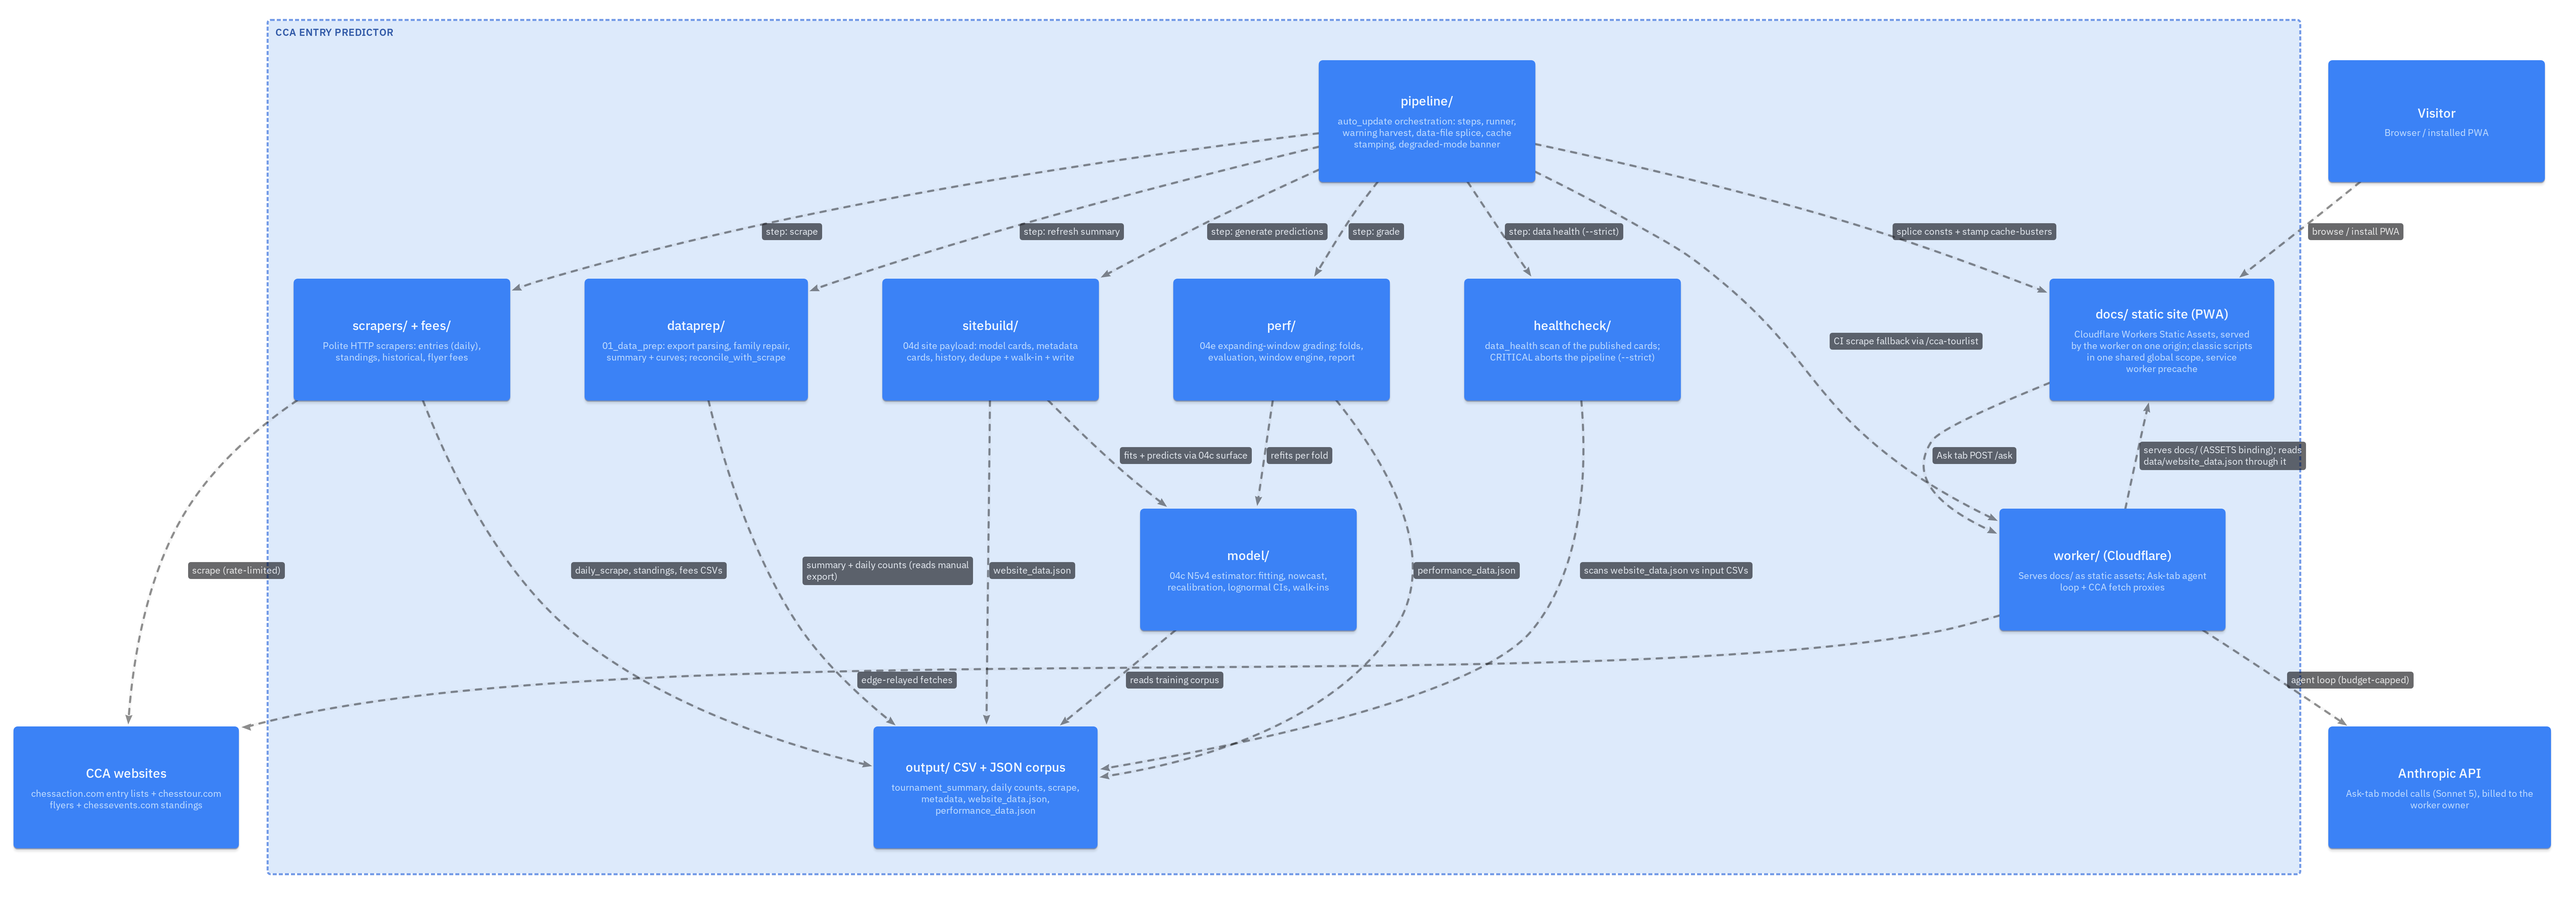
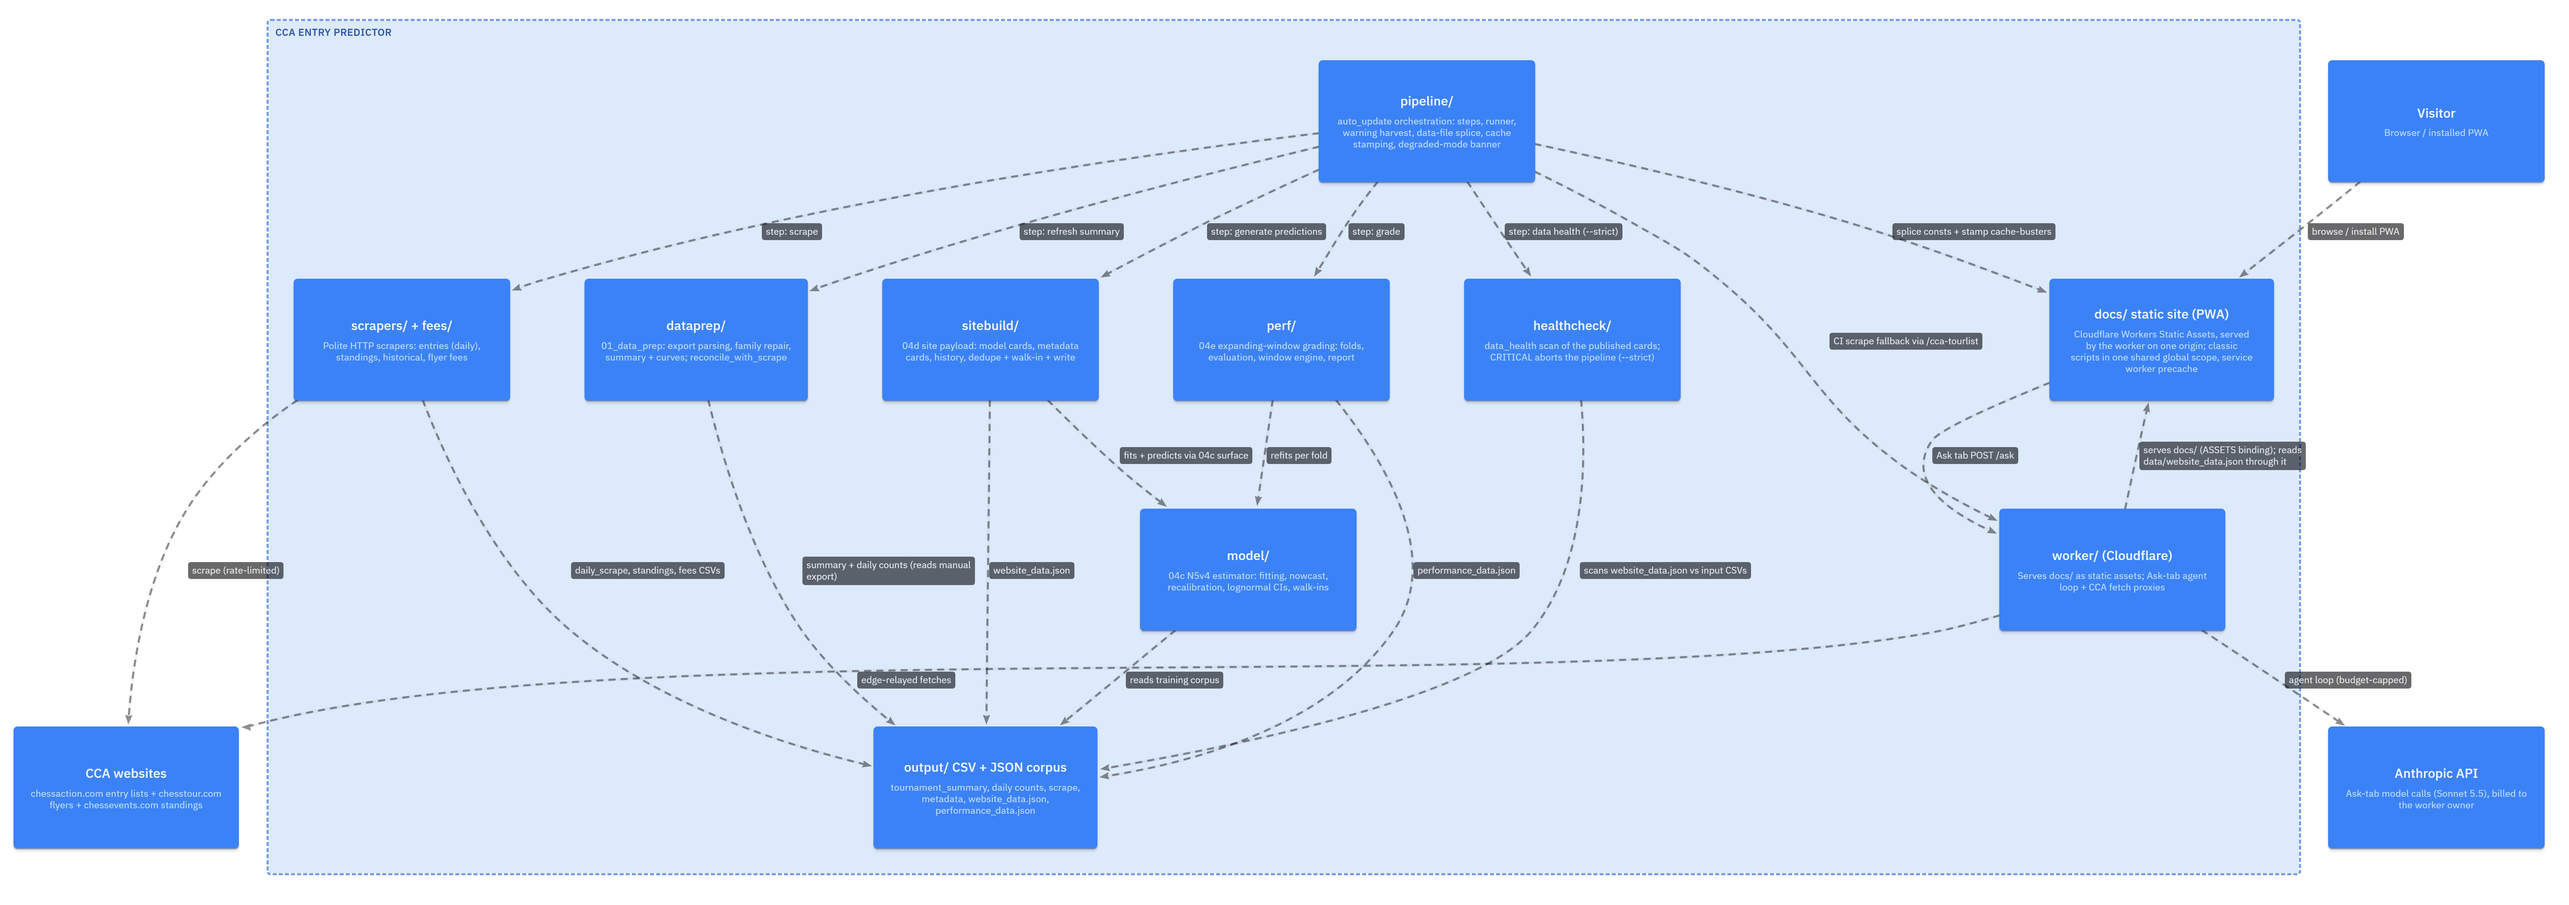
feat(worker): Ask tab on claude-sonnet-5-5 with server-side refusal fallback
- MODEL is claude-sonnet-5-5 in production and previews.
- Price table: Sonnet 5.5 entry ($2/$10, cache write $2.50, read $0.20);
  lookup takes the longest matching prefix, since claude-sonnet-5-5 also
  starts with claude-sonnet-5.
- Requests send fallbacks: "default". Turn cost is the larger of the
  served attempt and the sum of usage.iterations, priced per attempt
  model; an unknown served model bills at the table's highest rates and
  logs, instead of throwing after the tokens were already billed.
- /ask returns 503 model_unpriced before any billed call when MODEL has
  no price entry.
- A max_tokens stop is marked as cut off instead of shown as complete;
  each turn logs stop_reason, served model and token counts; /ask
  reports the model that served the answer.
- README MODEL row and the likec4 Anthropic element updated; index and
  worker_view re-rendered.

diff --git a/worker/src/limits.ts b/worker/src/limits.ts
@@ -75,7 +75,8 @@ const DEFAULT_DAILY_BUDGET_USD = 1;
 // to 60s stale and the cap was effectively per-PoP, per-minute. Worst case per
 // request is MAX_TURNS x max_tokens at Sonnet output rates (~$0.48) against a
 // $1.00 cap, so a burst of concurrent POSTs billed roughly $96 while the
-// counter recorded one charge.
+// counter recorded one charge. ($0.48 stays the floor on Sonnet 5.5: a turn
+// served by its refusal fallback bills at the Sonnet 5 entry below.)
 //
 // Writes to distinct keys cannot lose updates, so the sum is exact for
 // everything KV has converged on. The residual is list read-after-write lag,
@@ -157,6 +158,7 @@ interface ModelPricing {
   cacheRead: number;
 }
 const MODEL_PRICING: Record<string, ModelPricing> = {
+  "claude-sonnet-5-5": { input: 2.0, output: 10.0, cacheWrite: 2.5, cacheRead: 0.2 },
   // Sonnet 5 standard rate (intro $2/$10 runs through 2026-08-31; the budget
   // guard uses the durable rate so it over-counts, never under-counts).
   "claude-sonnet-5": { input: 3.0, output: 15.0, cacheWrite: 3.75, cacheRead: 0.3 },
@@ -164,24 +166,72 @@ const MODEL_PRICING: Record<string, ModelPricing> = {
   "claude-opus-4": { input: 15.0, output: 75.0, cacheWrite: 18.75, cacheRead: 1.5 },
   "claude-haiku-4": { input: 1.0, output: 5.0, cacheWrite: 1.25, cacheRead: 0.1 },
 };
+// Every rate at its table maximum. Bills a model the table does not know, which
+// can happen without a deploy: with `fallbacks: "default"` the server picks the
+// fallback model.
+const CEILING_PRICING: ModelPricing = {
+  input: Math.max(...Object.values(MODEL_PRICING).map(p => p.input)),
+  output: Math.max(...Object.values(MODEL_PRICING).map(p => p.output)),
+  cacheWrite: Math.max(...Object.values(MODEL_PRICING).map(p => p.cacheWrite)),
+  cacheRead: Math.max(...Object.values(MODEL_PRICING).map(p => p.cacheRead)),
+};
 // code_execution bills container uptime separately (~$0.05/hour). We can't see
 // wall-clock per request, so add a small per-invocation term when it ran.
 const CODE_EXEC_COST_PER_CALL = 0.0005;
 
+// Longest matching prefix wins: "claude-sonnet-5-5" also starts with
+// "claude-sonnet-5", and a first-match lookup would depend on key order.
+function priceKeyFor(model: string): string | undefined {
+  return Object.keys(MODEL_PRICING)
+    .filter(k => model.startsWith(k))
+    .sort((a, b) => b.length - a.length)[0];
+}
+
+// Strict lookup for the configured model. Callers check it before the first
+// billed call, so a missing entry stops the request instead of the spend.
 export function pricingFor(model: string): ModelPricing {
-  const key = Object.keys(MODEL_PRICING).find(k => model.startsWith(k));
+  const key = priceKeyFor(model);
   if (!key) {
     throw new Error(`No price table entry for model "${model}" — add it to MODEL_PRICING before deploying.`);
   }
   return MODEL_PRICING[key];
 }
 
-export function estimateCost(usage: Anthropic.Beta.BetaUsage, model: string, codeExecCalls = 0): number {
-  const p = pricingFor(model);
-  const i = usage.input_tokens ?? 0;
-  const o = usage.output_tokens ?? 0;
-  const cw = usage.cache_creation_input_tokens ?? 0;
-  const cr = usage.cache_read_input_tokens ?? 0;
-  const tokenCost = ((i * p.input) + (o * p.output) + (cw * p.cacheWrite) + (cr * p.cacheRead)) / 1_000_000;
-  return tokenCost + codeExecCalls * CODE_EXEC_COST_PER_CALL;
+// Lenient lookup for a model the API reports after the call. The tokens are
+// already billed, so an unknown model is charged at the ceiling and logged
+// rather than throwing and losing the record.
+function pricingForServed(model: string | null): ModelPricing {
+  const key = model ? priceKeyFor(model) : undefined;
+  if (key) return MODEL_PRICING[key];
+  console.error(`No price table entry for served model "${model}" — billing at the table's highest rates`);
+  return CEILING_PRICING;
+}
+
+interface TokenCounts {
+  input_tokens?: number | null;
+  output_tokens?: number | null;
+  cache_creation_input_tokens?: number | null;
+  cache_read_input_tokens?: number | null;
+}
+
+function tokenCost(u: TokenCounts, p: ModelPricing): number {
+  const i = u.input_tokens ?? 0;
+  const o = u.output_tokens ?? 0;
+  const cw = u.cache_creation_input_tokens ?? 0;
+  const cr = u.cache_read_input_tokens ?? 0;
+  return ((i * p.input) + (o * p.output) + (cw * p.cacheWrite) + (cr * p.cacheRead)) / 1_000_000;
+}
+
+// `model` is the model that served the response (`resp.model`). Top-level
+// usage covers only that attempt; with refusal fallbacks, `usage.iterations`
+// lists every attempt at its own model. Bill the larger of the two so a
+// declined attempt is never dropped. An entry without a model (compaction, or
+// a null `model`) is priced as the served model.
+export function estimateCost(usage: Anthropic.Beta.BetaUsage, model: string | null, codeExecCalls = 0): number {
+  const served = tokenCost(usage, pricingForServed(model));
+  const attempts = (usage.iterations ?? []).reduce((sum, it) => {
+    const itModel = "model" in it && it.model ? it.model : model;
+    return sum + tokenCost(it, pricingForServed(itModel));
+  }, 0);
+  return Math.max(served, attempts) + codeExecCalls * CODE_EXEC_COST_PER_CALL;
 }

diff --git a/worker/src/agent.ts b/worker/src/agent.ts
@@ -76,7 +76,14 @@ interface RunResult {
   tools_used: string[];
   latency_ms: number;
   cost_usd: number;
+  // The model that served the last turn. Differs from the configured model
+  // when a refusal fallback answered.
+  model: string;
 }
+
+// Thinking counts toward max_tokens, so a long turn can stop mid-answer. Say so
+// rather than presenting the partial text as a complete answer.
+const TRUNCATED_NOTE = "\n\n(This answer was cut off before it finished. Try a narrower question.)";
 
 export async function runAgentLoop(
   client: Anthropic,
@@ -91,6 +98,14 @@ export async function runAgentLoop(
   const toolsUsed: string[] = [];
   let totalCost = 0;
   let budgetStopped = false;
+  let servedModel = model;
+  const finish = (answer: string): RunResult => ({
+    answer,
+    tools_used: toolsUsed,
+    latency_ms: Date.now() - start,
+    cost_usd: +totalCost.toFixed(6),
+    model: servedModel,
+  });
 
   const messages: Anthropic.Beta.BetaMessageParam[] = [];
   if (body.history && Array.isArray(body.history)) {
@@ -131,8 +146,13 @@ export async function runAgentLoop(
       tools,
       output_config: { effort: "medium" },
       messages,
-      betas: ["files-api-2025-04-14"],
+      // On a policy refusal the API re-runs the turn on a fallback model it
+      // picks by refusal category. Non-streaming responses omit the declined
+      // partial, so resp.content is pushed back unchanged below.
+      fallbacks: "default",
+      betas: ["files-api-2025-04-14", "server-side-fallback-2026-07-01"],
     });
+    servedModel = resp.model ?? servedModel;
 
     // Track tool usage. Server-side tools (code_execution) emit server_tool_use blocks
     // with names like "bash_code_execution", "text_editor_code_execution". We collapse
@@ -145,8 +165,19 @@ export async function runAgentLoop(
         if (name.includes("code_execution")) sawCodeExec = true;
       }
     }
-    const turnCost = estimateCost(resp.usage, model, sawCodeExec ? 1 : 0);
+    const turnCost = estimateCost(resp.usage, resp.model, sawCodeExec ? 1 : 0);
     totalCost += turnCost;
+    console.log(JSON.stringify({
+      event: "ask_turn",
+      turn,
+      stop_reason: resp.stop_reason,
+      model: resp.model,
+      input_tokens: resp.usage.input_tokens,
+      output_tokens: resp.usage.output_tokens,
+      cache_read_input_tokens: resp.usage.cache_read_input_tokens,
+      cache_creation_input_tokens: resp.usage.cache_creation_input_tokens,
+      cost_usd: +turnCost.toFixed(6),
+    }));
     if (sawCodeExec && !toolsUsed.includes("code_execution")) {
       toolsUsed.push("code_execution");
     }
@@ -199,37 +230,20 @@ export async function runAgentLoop(
         .map((b) => b.text)
         .join("")
         .trim();
-      return {
-        answer: text || "(no answer returned)",
-        tools_used: toolsUsed,
-        latency_ms: Date.now() - start,
-        cost_usd: +totalCost.toFixed(6),
-      };
+      const answer = text || "(no answer returned)";
+      return finish(resp.stop_reason === "max_tokens" ? answer + TRUNCATED_NOTE : answer);
     }
 
     if (resp.stop_reason === "refusal") {
-      return {
-        answer: "I can't answer that one. Try a different question about the tournament data.",
-        tools_used: toolsUsed,
-        latency_ms: Date.now() - start,
-        cost_usd: +totalCost.toFixed(6),
-      };
+      return finish("I can't answer that one. Try a different question about the tournament data.");
     }
 
-    return {
-      answer: `(unexpected stop_reason: ${resp.stop_reason ?? "null"})`,
-      tools_used: toolsUsed,
-      latency_ms: Date.now() - start,
-      cost_usd: +totalCost.toFixed(6),
-    };
+    return finish(`(unexpected stop_reason: ${resp.stop_reason ?? "null"})`);
   }
 
-  return {
-    answer: budgetStopped
+  return finish(
+    budgetStopped
       ? "I ran out of the daily question budget partway through this one. Try again tomorrow."
-      : "Sorry — I got stuck looking that up. Try rephrasing the question.",
-    tools_used: toolsUsed,
-    latency_ms: Date.now() - start,
-    cost_usd: +totalCost.toFixed(6),
-  };
+      : "Sorry — I got stuck looking that up. Try rephrasing the question."
+  );
 }

diff --git a/worker/src/index.test.ts b/worker/src/index.test.ts
@@ -57,7 +57,7 @@ function envWith(overrides: Partial<Env> = {}): Env {
     ANTHROPIC_API_KEY: "test",
     ALLOWED_ORIGIN: "https://chessentries.com,http://localhost:8080",
     ASSETS: undefined as never,
-    MODEL: "claude-sonnet-5",
+    MODEL: "claude-sonnet-5-5",
     DAILY_BUDGET_USD: "1.00",
     RATE_LIMIT_PER_MIN: "20",
     KV: fakeKV(),
@@ -81,6 +81,16 @@ describe("pricingFor", () => {
     // Both rates are equal today; assert key identity, not just values.
     expect(pricingFor("claude-sonnet-4-6")).not.toBe(pricingFor("claude-sonnet-5"));
     expect(pricingFor("claude-opus-4-1").input).toBe(15.0);
+  });
+
+  it("gives sonnet-5-5 its own entry, not the sonnet-5 prefix match", () => {
+    const p = pricingFor("claude-sonnet-5-5");
+    expect(p).not.toBe(pricingFor("claude-sonnet-5"));
+    expect(p).toEqual({ input: 2.0, output: 10.0, cacheWrite: 2.5, cacheRead: 0.2 });
+  });
+
+  it("keeps sonnet-5 dated variants on the sonnet-5 entry", () => {
+    expect(pricingFor("claude-sonnet-5-20260901")).toBe(pricingFor("claude-sonnet-5"));
   });
 });
 
@@ -106,6 +116,48 @@ describe("estimateCost", () => {
 
   it("treats missing usage fields as zero", () => {
     expect(estimateCost({} as never, "claude-sonnet-5")).toBe(0);
+  });
+
+  it("prices sonnet-5-5 at its own rates", () => {
+    // 1M*2 + 0.1M*10 + 0.2M*2.5 + 0.4M*0.2 = 2 + 1 + 0.5 + 0.08
+    expect(estimateCost(usage, "claude-sonnet-5-5")).toBeCloseTo(3.58, 6);
+  });
+
+  it("bills an unknown served model at the table's highest rates instead of throwing", () => {
+    // Opus is the ceiling: 1M*15 + 0.1M*75 + 0.2M*18.75 + 0.4M*1.5 = 15 + 7.5 + 3.75 + 0.6
+    expect(estimateCost(usage, "claude-unlisted-9")).toBeCloseTo(26.85, 6);
+    expect(estimateCost(usage, null)).toBeCloseTo(26.85, 6);
+  });
+
+  it("bills every fallback attempt when iterations exceed the served attempt", () => {
+    // Sonnet 5.5 declined after 1M input; Sonnet 5 served 1M in + 0.1M out.
+    // Top-level usage covers only the served attempt.
+    const fallbackUsage = {
+      input_tokens: 1_000_000,
+      output_tokens: 100_000,
+      iterations: [
+        { type: "message", model: "claude-sonnet-5-5", input_tokens: 1_000_000, output_tokens: 0,
+          cache_creation_input_tokens: 0, cache_read_input_tokens: 0, cache_creation: null },
+        { type: "fallback_message", model: "claude-sonnet-5", input_tokens: 1_000_000, output_tokens: 100_000,
+          cache_creation_input_tokens: 0, cache_read_input_tokens: 0, cache_creation: null },
+      ],
+    } as never;
+    // Declined: 1M*2 = 2.0. Served at sonnet-5: 1M*3 + 0.1M*15 = 4.5. Sum 6.5 > 4.5.
+    expect(estimateCost(fallbackUsage, "claude-sonnet-5")).toBeCloseTo(6.5, 6);
+  });
+
+  it("prices a model-less iteration as the served model", () => {
+    const compacted = {
+      input_tokens: 0,
+      output_tokens: 0,
+      iterations: [
+        { type: "compaction", input_tokens: 1_000_000, output_tokens: 0,
+          cache_creation_input_tokens: 0, cache_read_input_tokens: 0, cache_creation: null },
+        { type: "message", model: null, input_tokens: 1_000_000, output_tokens: 0,
+          cache_creation_input_tokens: 0, cache_read_input_tokens: 0, cache_creation: null },
+      ],
+    } as never;
+    expect(estimateCost(compacted, "claude-sonnet-5-5")).toBeCloseTo(4.0, 6);
   });
 });
 

diff --git a/worker/src/index.ts b/worker/src/index.ts
@@ -6,7 +6,7 @@ import Anthropic from "@anthropic-ai/sdk";
 import { cachedFileId, loadData, runAgentLoop, type CachedData } from "./agent";
 import type { AskRequest, Env } from "./env";
 import { corsPreflight, isOriginAllowed, jsonResponse } from "./http";
-import { checkDailyBudget, checkGlobalRateLimit, checkRateLimit, recordCost } from "./limits";
+import { checkDailyBudget, checkGlobalRateLimit, checkRateLimit, pricingFor, recordCost } from "./limits";
 import { proxyCcaEntryList, proxyCcaTourList } from "./cca-proxy";
 import { handleEntryValue, PRICE_PATH, priceRedirect } from "./value-route";
 
@@ -125,6 +125,20 @@ export default {
       );
     }
 
+    // The configured model must be priced before the first billed call. A
+    // fallback model the server picks is priced after the fact (estimateCost).
+    try {
+      pricingFor(env.MODEL);
+    } catch (e) {
+      console.error((e as Error).message);
+      return jsonResponse(
+        { error: "model_unpriced", message: (e as Error).message, fallback_search: body.question },
+        { status: 503 },
+        env,
+        request
+      );
+    }
+
     const client = new Anthropic({ apiKey: env.ANTHROPIC_API_KEY });
 
     let cd: CachedData;
@@ -161,7 +175,6 @@ export default {
       return jsonResponse(
         {
           ...result,
-          model: env.MODEL,
           data_generated: cd.data.generated,
           file_mounted: !!cd.fileId,
         },

diff --git a/worker/README.md b/worker/README.md
@@ -83,7 +83,7 @@ npm run tail
 |---|---|---|
 | `[assets] directory` | `../docs` | The site. `run_worker_first` names the four API paths; everything else never invokes the Worker. |
 | `ALLOWED_ORIGIN` | `https://chessentries.com,http://localhost:8080,http://127.0.0.1:8080` | Cross-origin allowlist. Same-origin requests need no entry. |
-| `MODEL` | `claude-sonnet-5` | Anthropic model id. Swap to `claude-haiku-4-5` for a large cost reduction. |
+| `MODEL` | `claude-sonnet-5-5` | Anthropic model id. Needs an entry in `MODEL_PRICING` (`src/limits.ts`) or `/ask` answers 503. The agent loop sends `output_config.effort`, so a model without effort support (Haiku 4.5) fails every call. Refusals fall back server-side (`fallbacks: "default"`); a fallback model the price table lacks is billed at its highest rates. |
 | `DAILY_BUDGET_USD` | `1.00` | Hard cap; 503 past this. Charges are recorded one KV key each and summed by prefix, so concurrent turns cannot lose updates. |
 | `RATE_LIMIT_PER_MIN` | `20` | Per-IP request cap per 60-second window. |
 | `GLOBAL_RATE_LIMIT_PER_MIN` | `60` | Cap across every caller. The per-IP limit alone cannot bind an attacker who rotates through an IPv6 /64 or drives the endpoint from other people's browsers. |
